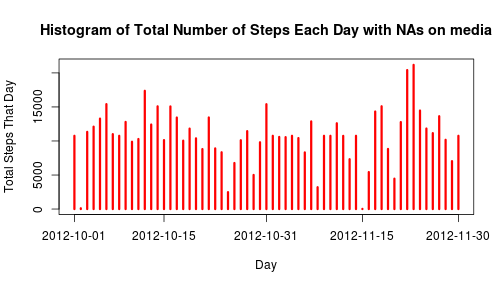
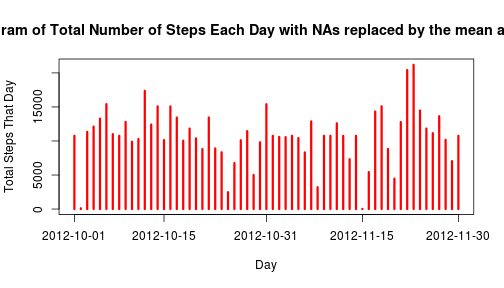
Anther typo

Changed region(s): [[0.0, 0.0625, 1.0, 0.1562]]

diff --git a/PA1_template.html b/PA1_template.html
@@ -262,11 +262,11 @@ vSums2&lt;-as.vector(tapply(dat2$steps,dat2$date,sum))
 
 <pre><code class="r">plot(c(1:nlvl), vSums2, type = &quot;h&quot;, lwd = 3, col = &quot;red&quot;, xaxt = &quot;n&quot;, xlab = &quot;Day&quot;, 
     ylab = &quot;Total Steps That Day&quot;)
-title(main = &quot;Histogram of Total Number of Steps Each Day with NAs on media&quot;)
+title(main = &quot;Histogram of Total Number of Steps Each Day with NAs replaced by the mean at each day&quot;)
 axis(1, vTicks, levels(dat2$date)[vTicks])
 </code></pre>
 
[2 lines of base64/hex data omitted]
 
 <pre><code class="r">mean2&lt;-as.integer(mean(vSums2))
 median2&lt;-as.integer(median(vSums2))

diff --git a/PA1_template.md b/PA1_template.md
@@ -80,7 +80,7 @@ The number of NAs in the original data set is 2304
 ```r
 plot(c(1:nlvl), vSums2, type = "h", lwd = 3, col = "red", xaxt = "n", xlab = "Day", 
     ylab = "Total Steps That Day")
-title(main = "Histogram of Total Number of Steps Each Day with NAs on media")
+title(main = "Histogram of Total Number of Steps Each Day with NAs replaced by the mean at each day")
 axis(1, vTicks, levels(dat2$date)[vTicks])
 ```
 
